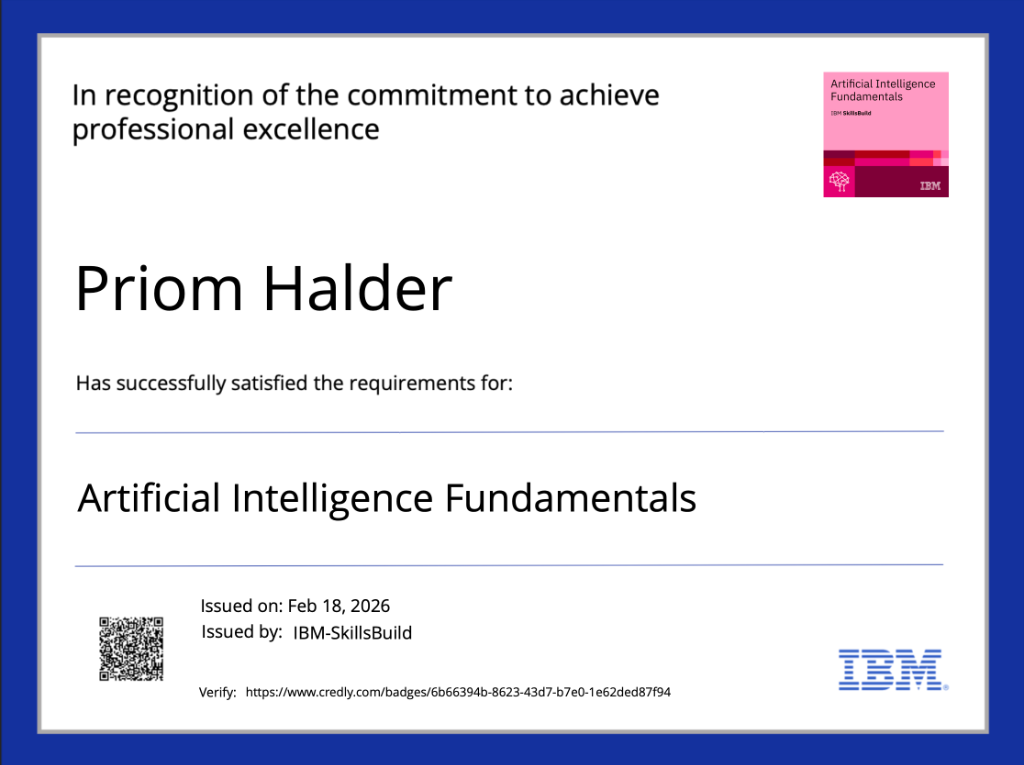
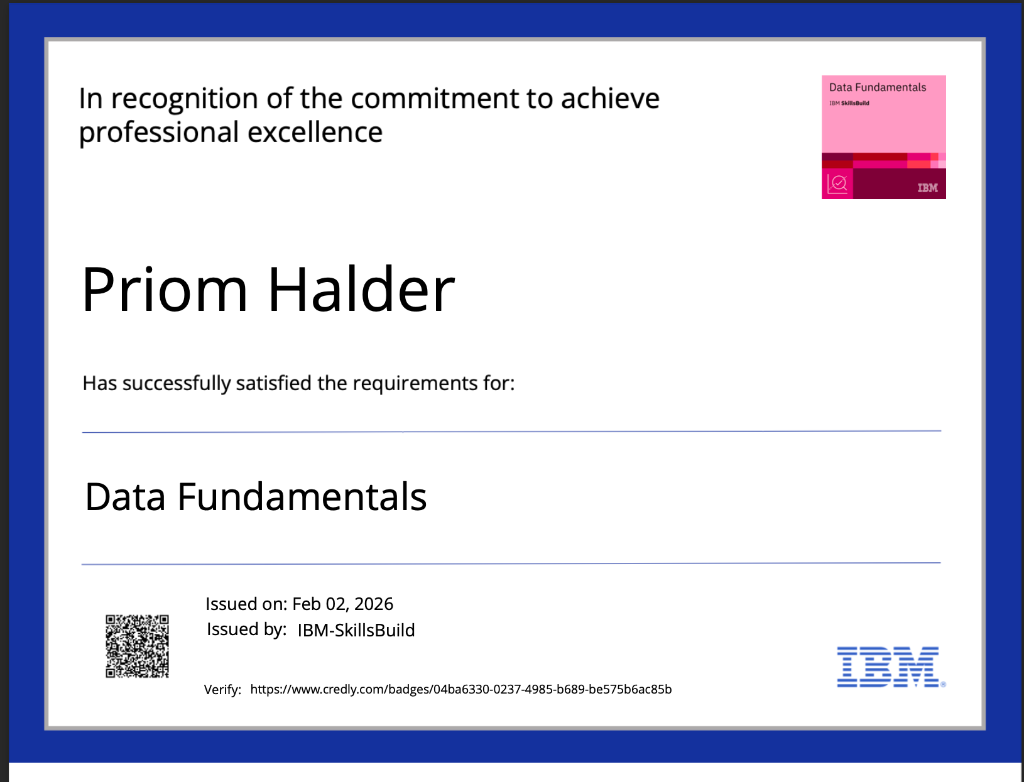
fix: update data fundamentals image and change accenture to deloitte

Changed region(s): [[0.0, 0.0, 1.0, 1.0], [0.0938, 0.5412, 0.9062, 0.5712], [0.8438, 0.6915, 0.9062, 0.7216]]

diff --git a/src/components/Achievements.tsx b/src/components/Achievements.tsx
@@ -31,8 +31,8 @@ export default function Achievements() {
         },
         {
             title: "Data Analytics Job Simulation",
-            issuer: "Accenture",
-            description: "Completed a professional simulation replicating a data analyst role at Accenture. Practiced data cleaning, visualization, and storytelling using real-world business datasets to generate actionable insights and client-ready reports.",
+            issuer: "Deloitte",
+            description: "Completed a professional simulation replicating a data analyst role at Deloitte. Practiced data cleaning, visualization, and storytelling using real-world business datasets to generate actionable insights and client-ready reports.",
             image: "/cert-data-analytics.png"
         },
         {
